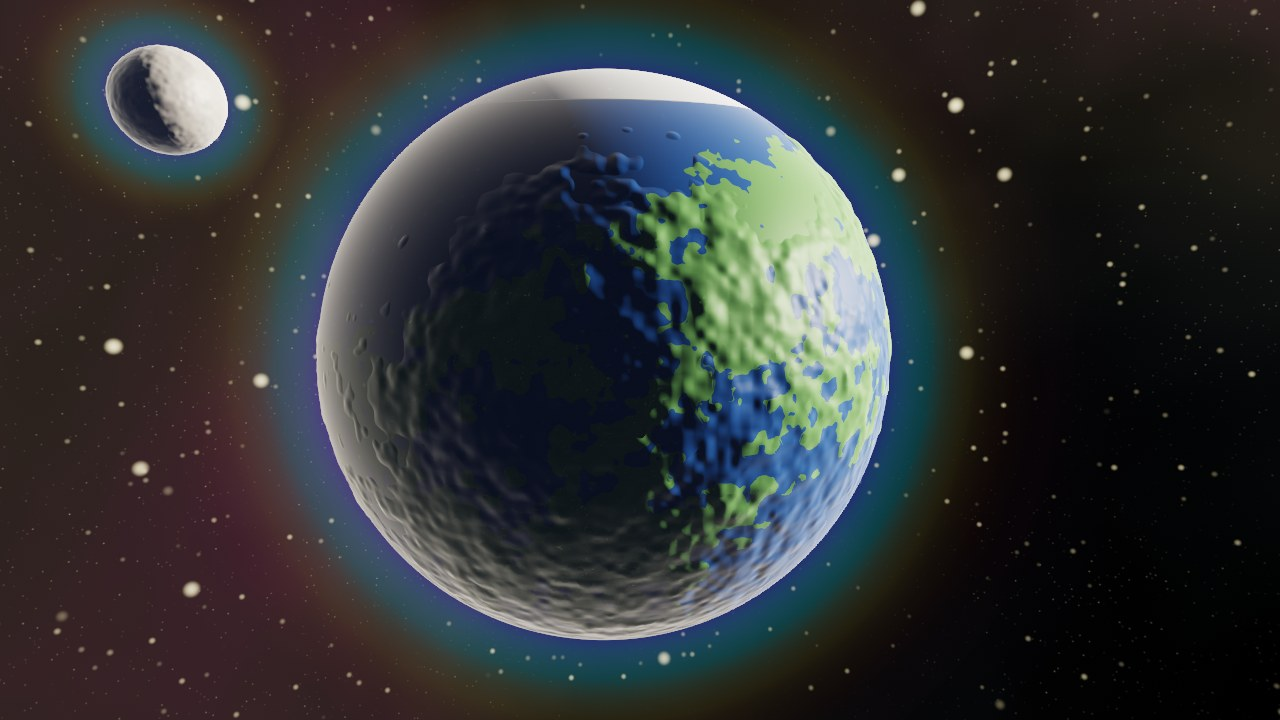
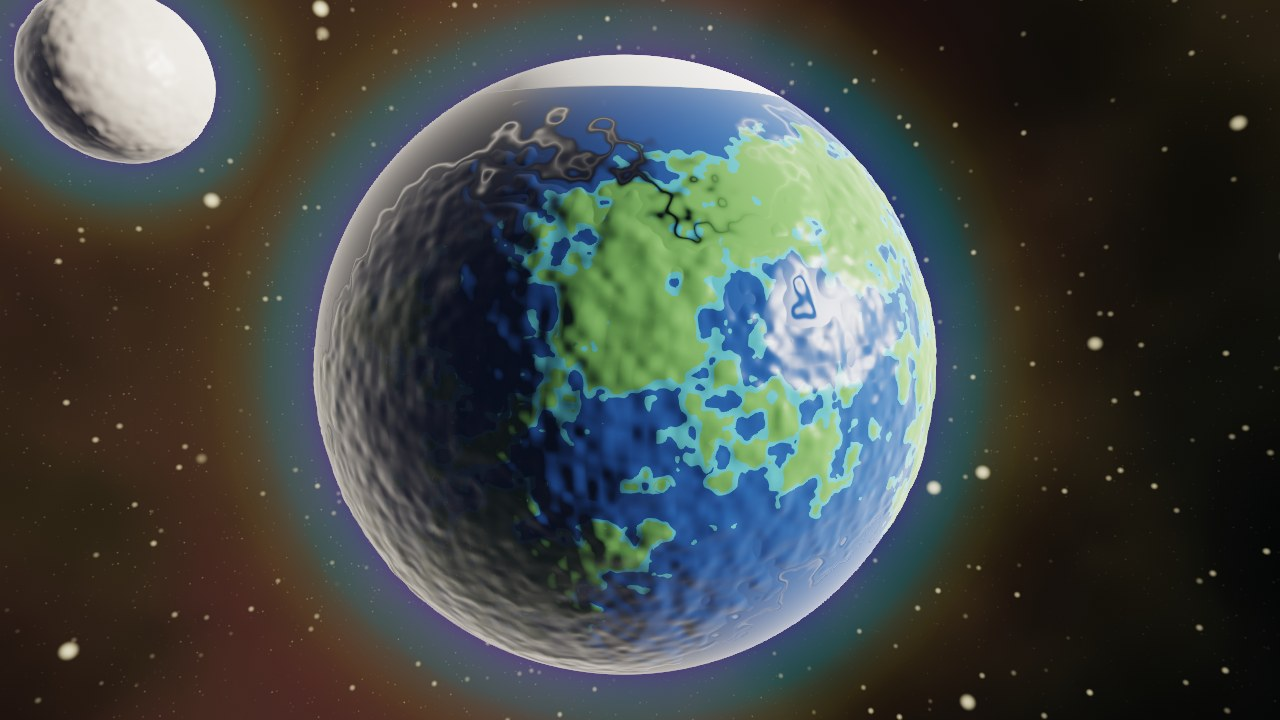
feat: Albedo 0.39, second pass — shallows, altitude bands, sun glint, framing
What the user called "horrible et simple", corrected where the engine allows.

  shallows   the sea sphere cut in two by the land raised 0.0015: where the
             raised land reaches the surface the water is turquoise, elsewhere
             deep blue — the coastal fringe that reads "Earth" from orbit
  bands      the land cut by spheres into lowland green (to 1.026), highland
             brown (to 1.038) and snow above; every band a disjoint piece, so no
             two materials compete for one point
  glint      a sharp specular on the classic shader (intensity 1, power 90)
  framing    lower orbit, the limb curving across the frame, the moon in the
             clear sky at the left, lit from the planet's side; a darker nebula

Tried and taken out: a third relief pass at a middle scale for hill ranges —
it drew concentric rings around the night pole; a beach band 0.006 thick and
shallows raised 0.014 — the first too thin to be stable, the second made the
whole ocean turquoise. Clouds stay out: the moss effect only fuzzes a surface it
cannot open.

SceneBuilder.specular(); BlueWorldTest counts seven materials. 103 JUnit tests,
RenderRegression all pass; gallery image and thumbnail regenerated.

diff --git a/src/main/java/org/fractalizer/test/PresetForge.java b/src/main/java/org/fractalizer/test/PresetForge.java
@@ -235,15 +235,16 @@ public class PresetForge {
         // coastline is an iso-line of fbm; snow above one radius, ice beyond one latitude;
         // a single low sun draws the terminator; the rim light is the atmosphere.
         p.put("ALBEDO_039", () -> SceneBuilder.nodeGraph(blueWorld())
-                .camera(0f, 0.62f, -2.95f).lookAt(0.12f, -0.02f, 0f).fov(48)
+                .camera(1.0f, 0.6f, -2.55f).lookAt(0.02f, 0.0f, 0.08f).fov(48)
                 .moveSpeed(0.05f)
                 .maxRaySteps(300)
                 .gradient(SPECTRUM).coloringMode(0)
                 .pathTracing(false).rimIntensity(0.45f).skyType(1)
-                .nebula(0.05f, 0.07f, 0.16f, 0.7f)
+                .nebula(0.02f, 0.03f, 0.09f, 0.5f)
                 .lightDir(2.6f, 0.7f, 0.5f).lightColor(1.0f, 0.92f, 0.80f).lightIntensity(2.3f)
                 .ambientColor(0.16f, 0.28f, 0.60f).ambientIntensity(0.07f)
                 .glowIntensity(0.25f)
+                .specular(1.0f, 90f)
                 .colorStrength(1.0f).metalness(0.0f).roughness(0.7f));
 
         return p;
@@ -258,9 +259,8 @@ public class PresetForge {
      * The plateaus the noise leaves highest are deserts, ochre; the poles are white.
      */
     static org.fractalizer.graph.GraphNode blueWorld() {
-        // The graph is a tree, not a DAG: the ice branch and the temperate branch each get
-        // their own globe. A node used twice is serialized twice anyway, and the compiler
-        // would emit it twice.
+        // The graph is a tree, not a DAG: every branch builds its own copy of the land.
+        // A node used twice is serialized twice anyway, and the compiler would emit it twice.
         org.fractalizer.graph.GraphNode temperate = SceneBuilder.subtract(colouredGlobe(), polarSlabs());
         temperate.setName("Temperate");
         org.fractalizer.graph.GraphNode ice = material(SceneBuilder.intersect(globeShape(), polarSlabs()), 0.92f, 0.96f, 1.0f, 0.6f, 0f);
@@ -269,44 +269,62 @@ public class PresetForge {
         planet.setName("Planet");
 
         org.fractalizer.graph.GraphNode moonBall = SceneBuilder.erode(sphere(0.27f), 0.7f, 4.0f, 0.4f, 3);
-        org.fractalizer.graph.GraphNode moon = material(SceneBuilder.translate(moonBall, -2.3f, 1.05f, 1.6f), 0.55f, 0.53f, 0.50f, 0.95f, 0f);
+        org.fractalizer.graph.GraphNode moon = material(SceneBuilder.translate(moonBall, -1.55f, 0.95f, -0.55f), 0.55f, 0.53f, 0.50f, 0.95f, 0f);
         moon.setName("Moon");
 
-        // No cloud shell: tried three times. A shell carved by fbm comes out as thick
-        // white plates with smooth edges, ice floes rather than clouds, whatever the
-        // scale. Clouds need soft edges, which a distance field does not give.
-        // No glass atmosphere either: a sphere of glass around the planet turns it into
-        // a black disc under path tracing and a white ball under classic shading. The
-        // halo comes from the rim light.
+        // No clouds: a shell carved by fbm gives plates with smooth edges (ice floes), and
+        // the moss effect only fuzzes a surface it cannot open. A distance field has no
+        // soft edge to offer. No glass atmosphere either: a black disc under path tracing,
+        // a white ball under classic shading. The halo is the rim light.
         org.fractalizer.graph.GraphNode world = SceneBuilder.union(planet, moon);
         world.setName("Albedo 0.39");
         return world;
     }
 
-    /** The carved land: radius 1.046, continents by thermal noise, mountains by weathering.
-     *  Carve depth is fbm * K with K = 0.35 * time * strength * scale * 0.05 = 0.112, so the
-     *  sea (radius 1) shows where fbm > 0.41 and the deserts stay where fbm < 0.18. */
-    private static org.fractalizer.graph.GraphNode land() {
-        org.fractalizer.graph.GraphNode land = SceneBuilder.erode(sphere(1.046f), 0.8f, 4.0f, 2.0f, 2);   // continents
-        land = SceneBuilder.erode(land, 0.9f, 5.0f, 0.5f, 3);                                            // mountains
+    /** Land relief: sea level is radius 1. */
+    private static final float LAND_R = 1.044f;
+
+    /**
+     * The carved land on a base sphere of radius {@code r}. Two passes of the erosion
+     * effect, both position-based, so the same carve lands on any base radius: thermal
+     * noise at scale 2 for the continents (carve = fbm * 0.112), fine signed weathering
+     * for the mountains. A third pass at a middle scale was tried for hill ranges and
+     * drew concentric rings around the night pole: out. The sea (radius 1) shows where
+     * the carve exceeds r - 1.
+     */
+    private static org.fractalizer.graph.GraphNode land(float r) {
+        org.fractalizer.graph.GraphNode land = SceneBuilder.erode(sphere(r), 0.8f, 4.0f, 2.0f, 2);   // continents
+        land = SceneBuilder.erode(land, 0.9f, 4.0f, 0.5f, 3);                                        // mountains
         land.setName("Land");
         return land;
     }
 
     /** Land and sea, bare geometry. */
     private static org.fractalizer.graph.GraphNode globeShape() {
-        return SceneBuilder.union(land(), sphere(1.0f));
+        return SceneBuilder.union(land(LAND_R), sphere(1.0f));
     }
 
-    /** Land and sea with their colours: green lowland, ochre desert above 1.026, blue sea. */
+    /**
+     * Land and sea with their colours. The land is one eroded sphere cut into altitude
+     * bands by spheres: green up to 1.026, brown to 1.038, snow above.
+     * The sea is cut in two by the land raised 0.0015: where that raised land reaches the
+     * sea surface the water is shallow, turquoise; elsewhere deep blue. Every band is a
+     * disjoint piece, so no two materials compete for one surface point.
+     */
     private static org.fractalizer.graph.GraphNode colouredGlobe() {
-        org.fractalizer.graph.GraphNode lowland = material(SceneBuilder.intersect(land(), sphere(1.026f)), 0.19f, 0.40f, 0.15f, 0.85f, 0f);
+        org.fractalizer.graph.GraphNode lowland = material(SceneBuilder.intersect(land(LAND_R), sphere(1.026f)), 0.16f, 0.34f, 0.13f, 0.85f, 0f);
         lowland.setName("Lowland");
-        org.fractalizer.graph.GraphNode highland = material(SceneBuilder.subtract(land(), sphere(1.026f)), 0.78f, 0.66f, 0.42f, 0.9f, 0f);
+        org.fractalizer.graph.GraphNode highland = material(SceneBuilder.intersect(SceneBuilder.subtract(land(LAND_R), sphere(1.026f)), sphere(1.038f)), 0.50f, 0.40f, 0.26f, 0.9f, 0f);
         highland.setName("Highland");
-        org.fractalizer.graph.GraphNode sea = material(sphere(1.0f), 0.03f, 0.12f, 0.36f, 0.12f, 0f);
-        sea.setName("Ocean");
-        return SceneBuilder.union(SceneBuilder.union(lowland, highland), sea);
+        org.fractalizer.graph.GraphNode snow = material(SceneBuilder.subtract(land(LAND_R), sphere(1.038f)), 0.93f, 0.95f, 0.98f, 0.8f, 0f);
+        snow.setName("Snow");
+        org.fractalizer.graph.GraphNode landBands = SceneBuilder.union(lowland, SceneBuilder.union(highland, snow));
+
+        org.fractalizer.graph.GraphNode shallow = material(SceneBuilder.intersect(sphere(1.0f), land(LAND_R + 0.0015f)), 0.12f, 0.40f, 0.50f, 0.15f, 0f);
+        shallow.setName("Shallows");
+        org.fractalizer.graph.GraphNode deep = material(SceneBuilder.subtract(sphere(1.0f), land(LAND_R + 0.0015f)), 0.03f, 0.10f, 0.30f, 0.10f, 0f);
+        deep.setName("Ocean");
+        return SceneBuilder.union(landBands, SceneBuilder.union(shallow, deep));
     }
 
     /** Two slabs beyond |y| = 0.86: what they cut out of the globe is polar ice. */

diff --git a/src/test/java/org/fractalizer/test/BlueWorldTest.java b/src/test/java/org/fractalizer/test/BlueWorldTest.java
@@ -20,12 +20,12 @@ import static org.junit.jupiter.api.Assertions.*;
 class BlueWorldTest {
 
     @Test
-    void theWorldCompilesWithItsSixMaterials() {
+    void theWorldCompilesWithItsSevenMaterials() {
         GraphNode world = PresetForge.blueWorld();
         String glsl = assertDoesNotThrow(() -> new GraphCompiler().compile(world));
         assertTrue(glsl.contains("float DE(vec3 pos, out OrbitTrap trap)"));
         // lowland, highland, ocean, ice, moon
-        assertEquals(5, LabyrinthWorldTest.countMaterials(world), "lowland, desert, ocean, ice, moon");
+        assertEquals(7, LabyrinthWorldTest.countMaterials(world), "lowland, highland, snow, shallows, ocean, ice, moon");
     }
 
     @Test

diff --git a/src/main/java/org/fractalizer/test/SceneBuilder.java b/src/main/java/org/fractalizer/test/SceneBuilder.java
@@ -569,6 +569,13 @@ public class SceneBuilder {
         return this;
     }
 
+    /** Specular highlight of the classic shader: intensity and Phong power (sharpness). */
+    public SceneBuilder specular(float intensity, float power) {
+        config.rendering.specularIntensity = intensity;
+        config.rendering.specularPower = power;
+        return this;
+    }
+
     /** Camera movement speed per key press, in world units: small for tight corridors. */
     public SceneBuilder moveSpeed(float speed) {
         config.camera.moveSpeed = speed;
